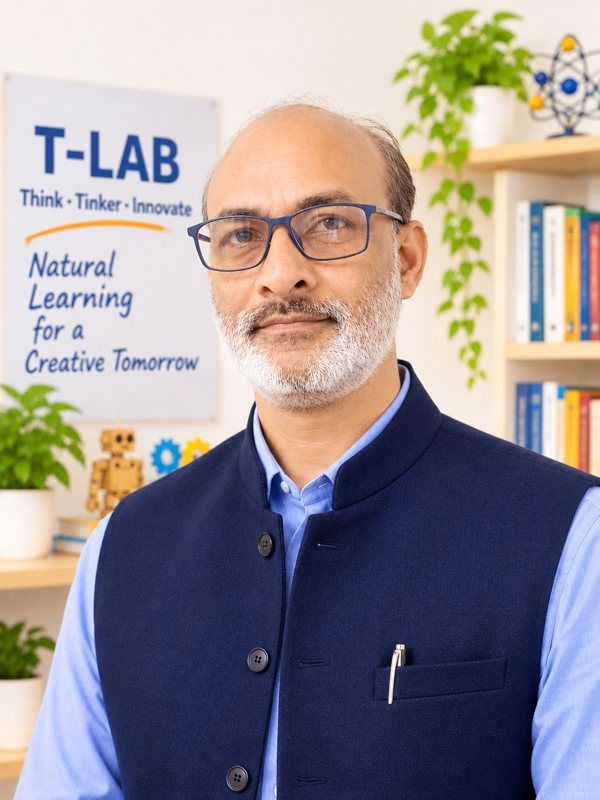
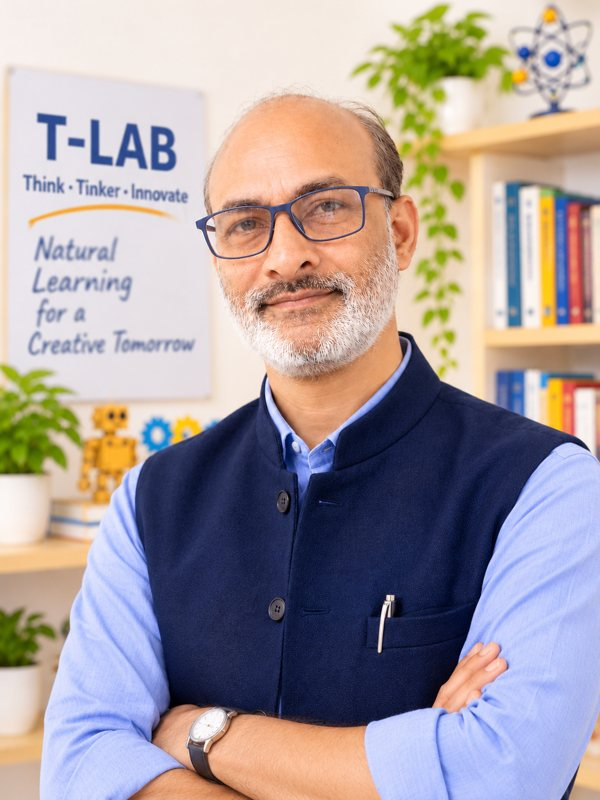
patch-54-views-everywhere-founder-photo

diff --git a/backend/dist/routes/youtubeViewsRoutes.js b/backend/dist/routes/youtubeViewsRoutes.js
@@ -1,23 +1,48 @@
 "use strict";
+var __importDefault = (this && this.__importDefault) || function (mod) {
+    return (mod && mod.__esModule) ? mod : { "default": mod };
+};
 Object.defineProperty(exports, "__esModule", { value: true });
 // backend/src/routes/youtubeViewsRoutes.ts
-// GET /api/videos/youtube-views?ids=a,b,c  (logged-in users)
+// GET /api/videos/youtube-views?ids=a,b,c  (public: guests see the numbers too)
 // View counts of public videos on the MiniGuru YouTube channel, for the small
 // "views on YouTube" badge in the app. Cached 3 hours so a busy day costs almost no
 // YouTube quota (one list call of up to 50 videos is 1 unit).
 const express_1 = require("express");
 const authMiddleware_1 = require("../middleware/authMiddleware");
+const prismaClient_1 = __importDefault(require("../utils/prismaClient"));
 const router = (0, express_1.Router)();
 const { getVideoViewCounts } = require('../services/youtubeUploadService');
 const TTL_MS = 3 * 60 * 60 * 1000;
 const cache = new Map();
-router.get('/youtube-views', authMiddleware_1.authenticateToken, async (req, res) => {
+// Only ids of published MiniGuru videos are looked up (so nobody can use this to query other videos).
+let okIds = new Set();
+let okAt = 0;
+async function publishedIds() {
+    if (Date.now() - okAt < 10 * 60 * 1000 && okIds.size)
+        return okIds;
+    const rows = await prismaClient_1.default.project.findMany({ where: { status: 'published' }, select: { video: true } });
+    const s = new Set();
+    for (const r of rows) {
+        const m = /(?:v=|youtu\.be\/|embed\/|shorts\/)([A-Za-z0-9_-]{11})/.exec(r.video?.url || '');
+        if (m)
+            s.add(m[1]);
+    }
+    okIds = s;
+    okAt = Date.now();
+    return s;
+}
+router.get('/youtube-views', authMiddleware_1.authenticateTokenOptional, async (req, res) => {
     try {
         const ids = String(req.query.ids || '')
             .split(',')
             .map((s) => s.trim())
             .filter((s) => /^[A-Za-z0-9_-]{6,20}$/.test(s))
             .slice(0, 50);
+        const allowed = await publishedIds();
+        for (let i = ids.length - 1; i >= 0; i--)
+            if (!allowed.has(ids[i]))
+                ids.splice(i, 1);
         const now = Date.now();
         const out = {};
         const need = [];

diff --git a/backend/src/routes/youtubeViewsRoutes.ts b/backend/src/routes/youtubeViewsRoutes.ts
@@ -1,23 +1,41 @@
 // backend/src/routes/youtubeViewsRoutes.ts
-// GET /api/videos/youtube-views?ids=a,b,c  (logged-in users)
+// GET /api/videos/youtube-views?ids=a,b,c  (public: guests see the numbers too)
 // View counts of public videos on the MiniGuru YouTube channel, for the small
 // "views on YouTube" badge in the app. Cached 3 hours so a busy day costs almost no
 // YouTube quota (one list call of up to 50 videos is 1 unit).
 import { Router, Request, Response } from 'express';
-import { authenticateToken } from '../middleware/authMiddleware';
+import { authenticateTokenOptional } from '../middleware/authMiddleware';
+import prisma from '../utils/prismaClient';
 
 const router = Router();
 const { getVideoViewCounts } = require('../services/youtubeUploadService');
 const TTL_MS = 3 * 60 * 60 * 1000;
 const cache = new Map<string, { v: number; at: number }>();
 
-router.get('/youtube-views', authenticateToken, async (req: Request, res: Response) => {
+// Only ids of published MiniGuru videos are looked up (so nobody can use this to query other videos).
+let okIds: Set<string> = new Set();
+let okAt = 0;
+async function publishedIds(): Promise<Set<string>> {
+  if (Date.now() - okAt < 10 * 60 * 1000 && okIds.size) return okIds;
+  const rows: any[] = await (prisma as any).project.findMany({ where: { status: 'published' }, select: { video: true } });
+  const s = new Set<string>();
+  for (const r of rows) {
+    const m = /(?:v=|youtu\.be\/|embed\/|shorts\/)([A-Za-z0-9_-]{11})/.exec(r.video?.url || '');
+    if (m) s.add(m[1]);
+  }
+  okIds = s; okAt = Date.now();
+  return s;
+}
+
+router.get('/youtube-views', authenticateTokenOptional, async (req: Request, res: Response) => {
   try {
     const ids = String(req.query.ids || '')
       .split(',')
       .map((s) => s.trim())
       .filter((s) => /^[A-Za-z0-9_-]{6,20}$/.test(s))
       .slice(0, 50);
+    const allowed = await publishedIds();
+    for (let i = ids.length - 1; i >= 0; i--) if (!allowed.has(ids[i])) ids.splice(i, 1);
     const now = Date.now();
     const out: Record<string, number> = {};
     const need: string[] = [];

diff --git a/backend/src/utils/viewsBoard.ts b/backend/src/utils/viewsBoard.ts
@@ -56,7 +56,7 @@ export async function buildViewsBoard(opts: { start: Date | null; end: Date | nu
   await syncYoutubeViews();
   const where: any = { status: 'published' };
   if (opts.categoryId) where.categoryId = opts.categoryId;
-  const projects: any[] = await db.project.findMany({ where, select: { id: true, userId: true, collaborators: true } });
+  const projects: any[] = await db.project.findMany({ where, select: { id: true, userId: true, collaborators: true, createdAt: true } });
   if (projects.length === 0) return [];
   const ids = projects.map((p) => p.id);
   const endDay = opts.end ? istDay(new Date(Math.min(opts.end.getTime() - 1, Date.now()))) : '9999-12-31';
@@ -77,7 +77,8 @@ export async function buildViewsBoard(opts: { start: Date | null; end: Date | nu
     const endV = list[list.length - 1].views;
     if (!opts.start) { gained.set(p.id, endV); continue; }
     const before = list.filter((s) => s.day < startDay);
-    const baseV = before.length ? before[before.length - 1].views : list[0].views;
+    // A video uploaded inside the period had no views before it, so it counts from zero.
+    const baseV = before.length ? before[before.length - 1].views : (new Date(p.createdAt) >= (opts.start as Date) ? 0 : list[0].views);
     gained.set(p.id, Math.max(0, endV - baseV));
   }
 

diff --git a/app/miniguru/lib/screens/navScreen/community_screen.dart b/app/miniguru/lib/screens/navScreen/community_screen.dart
@@ -886,7 +886,7 @@ class _LadderTabState extends State<_LadderTab> {
   // Goins EARNED for building (project approvals + peer ratings received)
   // in a window, so the board resets each week/month/year instead of the
   // all-time total where whoever got ahead stays ahead.
-  String _period = 'year'; // week | month | year | alltime
+  late String _period = widget.views ? 'alltime' : 'year'; // week | month | year | alltime
   int _offset = 0; // 0 = current period, -1 = previous, ...
   String _scope = 'school'; // app | school (falls back to app if the child has no school)
   bool _scopeChosen = false;
@@ -1352,7 +1352,7 @@ class _LadderTabState extends State<_LadderTab> {
                   ? (widget.views
                       ? (_period == 'alltime'
                           ? 'Views on YouTube, all-time.'
-                          : 'Views on YouTube ${_whenText()}, counted from the day we started saving them.')
+                          : 'Views on YouTube ${_whenText()}: views gained in that time, by videos old and new.')
                       : 'Goins earned ${_whenText()}. A fresh race starts every ${_periodNames[_period] ?? 'period'}!')
                   : (widget.views
                       ? 'Views on YouTube for ${catName2()} projects ${_whenText()}.'

diff --git a/app/miniguru/lib/screens/navScreen/home.dart b/app/miniguru/lib/screens/navScreen/home.dart
@@ -1257,6 +1257,7 @@ class _HomeState extends State<Home> {
                         style: GoogleFonts.nunito(fontSize: 11, color: Colors.white70),
                       ),
                     ],
+                    YoutubeViewsChip(videoId: v['videoId']?.toString() ?? '', onDark: true),
                   ],
                 ),
               ),
@@ -1807,6 +1808,7 @@ class _HomeState extends State<Home> {
                     color: Colors.black87),
                 maxLines: 2,
                 overflow: TextOverflow.ellipsis),
+            YoutubeViewsChip(videoId: videoId),
             // 🛒 Materials strip — same addition as _buildVideoCard above.
             if (materials.isNotEmpty) ...[
               const SizedBox(height: 6),
@@ -1889,6 +1891,7 @@ class _HomeState extends State<Home> {
                         Text('@${video['channelTitle'] ?? 'maker'}',
                             style: GoogleFonts.nunito(
                                 fontSize: 9, color: Colors.white70)),
+                        YoutubeViewsChip(videoId: videoId, onDark: true),
                       ],
                     ),
                   ),

diff --git a/backend/dist/utils/viewsBoard.js b/backend/dist/utils/viewsBoard.js
@@ -65,7 +65,7 @@ async function buildViewsBoard(opts) {
     const where = { status: 'published' };
     if (opts.categoryId)
         where.categoryId = opts.categoryId;
-    const projects = await db.project.findMany({ where, select: { id: true, userId: true, collaborators: true } });
+    const projects = await db.project.findMany({ where, select: { id: true, userId: true, collaborators: true, createdAt: true } });
     if (projects.length === 0)
         return [];
     const ids = projects.map((p) => p.id);
@@ -91,7 +91,8 @@ async function buildViewsBoard(opts) {
             continue;
         }
         const before = list.filter((s) => s.day < startDay);
-        const baseV = before.length ? before[before.length - 1].views : list[0].views;
+        // A video uploaded inside the period had no views before it, so it counts from zero.
+        const baseV = before.length ? before[before.length - 1].views : (new Date(p.createdAt) >= opts.start ? 0 : list[0].views);
         gained.set(p.id, Math.max(0, endV - baseV));
     }
     const credit = new Map();

diff --git a/app/miniguru/lib/network/MiniguruApi.dart b/app/miniguru/lib/network/MiniguruApi.dart
@@ -1743,11 +1743,11 @@ class MiniguruApi {
   /// Real YouTube view counts for a few videos: {videoId: views}. Empty when unavailable.
   Future<Map<String, int>> fetchYoutubeViews(List<String> ids) async {
     try {
-      final authToken = await _db!.getAuthToken();
-      if (authToken == null || ids.isEmpty) return {};
+      if (ids.isEmpty) return {};
+      final authToken = await _db?.getAuthToken(); // optional: guests see the numbers too
       final r = await http.get(
         Uri.parse('$_baseUrl/api/videos/youtube-views?ids=${ids.join(',')}'),
-        headers: _buildHeaders(authToken.accessToken),
+        headers: _buildHeaders(authToken?.accessToken),
       );
       if (r.statusCode != 200) return {};
       final data = jsonDecode(r.body);
